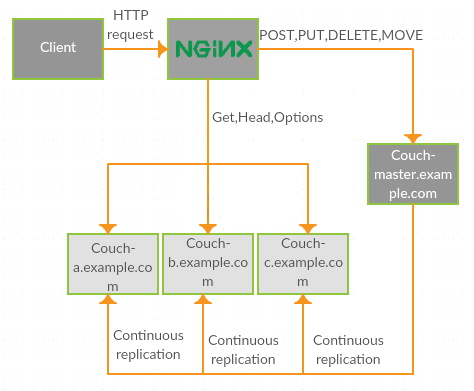
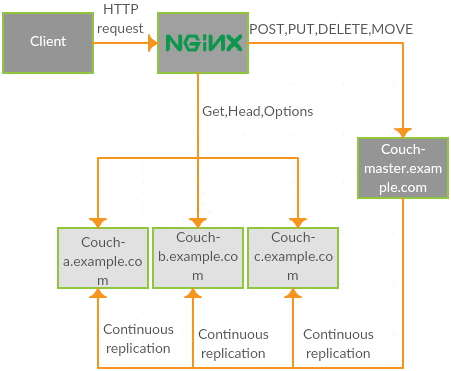
Sharding image

Changed region(s): [[0.0, 0.0, 1.0, 1.0], [0.4346, 0.2668, 0.714, 0.3261], [0.0621, 0.0889, 0.1552, 0.1482]]

diff --git a/README.md b/README.md
@@ -270,6 +270,10 @@ padrão são 8 shards (q=8) e 3 réplicas (n=3). Seguindo os valores definidos c
 nós de um banco de dados seja multipo da quantidade de partes do banco, ou seja, se há 24 partes, 
 o correto seria haver 2 ou 3 ou 4 ou 6 ou 8 nós configurados.
 
+<p align="center">
+  <img width="585" height="302" src="static/Sharding.png?raw=true">
+</p>
+
 
 # <a name="terminologia"></a>Terminologia
 
